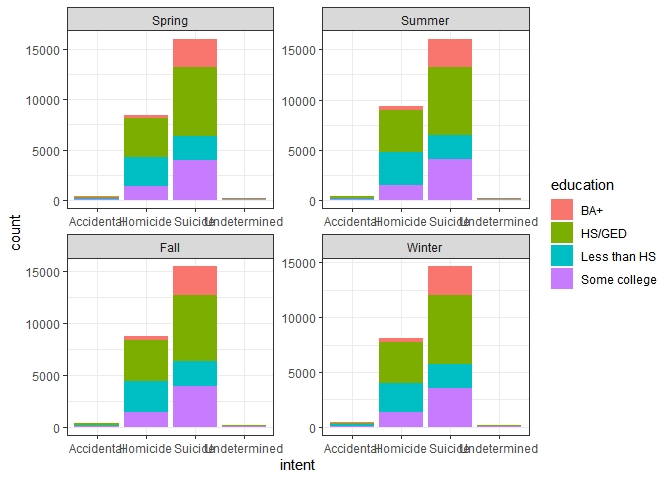
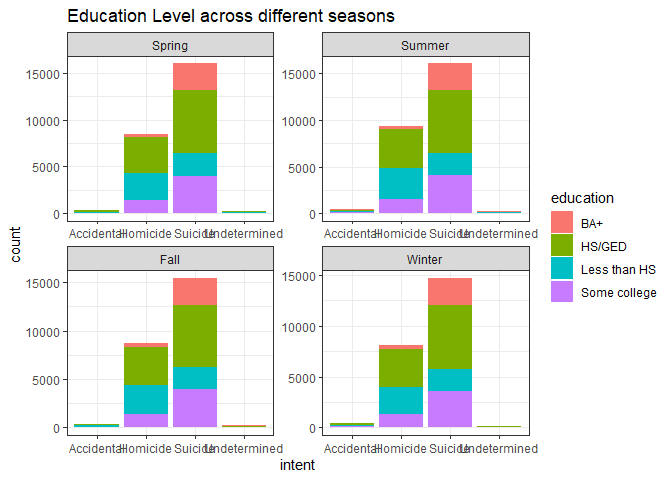
issue fixed

diff --git a/Week5/CaseStudy5/caseStudy5.html b/Week5/CaseStudy5/caseStudy5.html
@@ -234,8 +234,8 @@ str(gunData)</code></pre>
 ##   ..   education = col_character()
 ##   .. )</code></pre>
 </div>
-<div id="graph-about-gun-deaths-for-different-age-groups" class="section level3">
-<h3>Graph about gun deaths for different age groups</h3>
+<div id="create-age-groups" class="section level3">
+<h3>Create age groups</h3>
 <pre class="r"><code>#Create age groups
 gunsData &lt;- gunData_new %&gt;%
   mutate(agegroup =
@@ -246,9 +246,11 @@ gunsData &lt;- gunData_new %&gt;%
             age &gt;= 65 ~ &quot;65+&quot;),
          agegroup = fct_relevel(agegroup, 
             &quot;under 15&quot;, &quot;15-34&quot;, &quot;35-64&quot;, 
-            &quot;65+&quot;))
-
-ggplot(data = gunsData, aes(x = agegroup, fill = sex)) +
+            &quot;65+&quot;))</code></pre>
+</div>
+<div id="graph-about-gun-deaths-for-different-age-groups" class="section level3">
+<h3>Graph about gun deaths for different age groups</h3>
+<pre class="r"><code>ggplot(data = gunsData, aes(x = agegroup, fill = sex)) +
   geom_bar() +
   facet_wrap(~intent, nrow = 2, scales = &#39;free&#39;) +
   scale_fill_manual(values = c(&#39;#FD6D6D&#39;, &#39;#5A84D3&#39;)) +

diff --git a/Week5/CaseStudy5/caseStudy5.md b/Week5/CaseStudy5/caseStudy5.md
@@ -74,7 +74,7 @@ str(gunData)
 ##   ..   education = col_character()
 ##   .. )
 ```
-### Graph about gun deaths for different age groups
+### Create age groups
 
 ```r
 #Create age groups
@@ -88,7 +88,10 @@ gunsData <- gunData_new %>%
          agegroup = fct_relevel(agegroup, 
             "under 15", "15-34", "35-64", 
             "65+"))
+```
+### Graph about gun deaths for different age groups
 
+```r
 ggplot(data = gunsData, aes(x = agegroup, fill = sex)) +
   geom_bar() +
   facet_wrap(~intent, nrow = 2, scales = 'free') +
@@ -132,6 +135,7 @@ season <- gunData_new %>%
 ggplot(season, aes(intent, fill = education)) +
   geom_bar() +
   facet_wrap(~seasons, scales = "free") +
+  ggtitle("Education Level across different seasons") +
   theme_bw()
 ```
 
@@ -146,6 +150,7 @@ A vast majority of all gun deaths are because of suicide. Most gun deaths are al
 ggplot(season, aes(seasons, fill = race)) +
   geom_bar() +
   facet_wrap(~race, scales = 'free') +
+  ggtitle("Gun Deaths across different races for different seasons") +
   theme_bw() +
   theme(legend.position = 'none')
 ```
